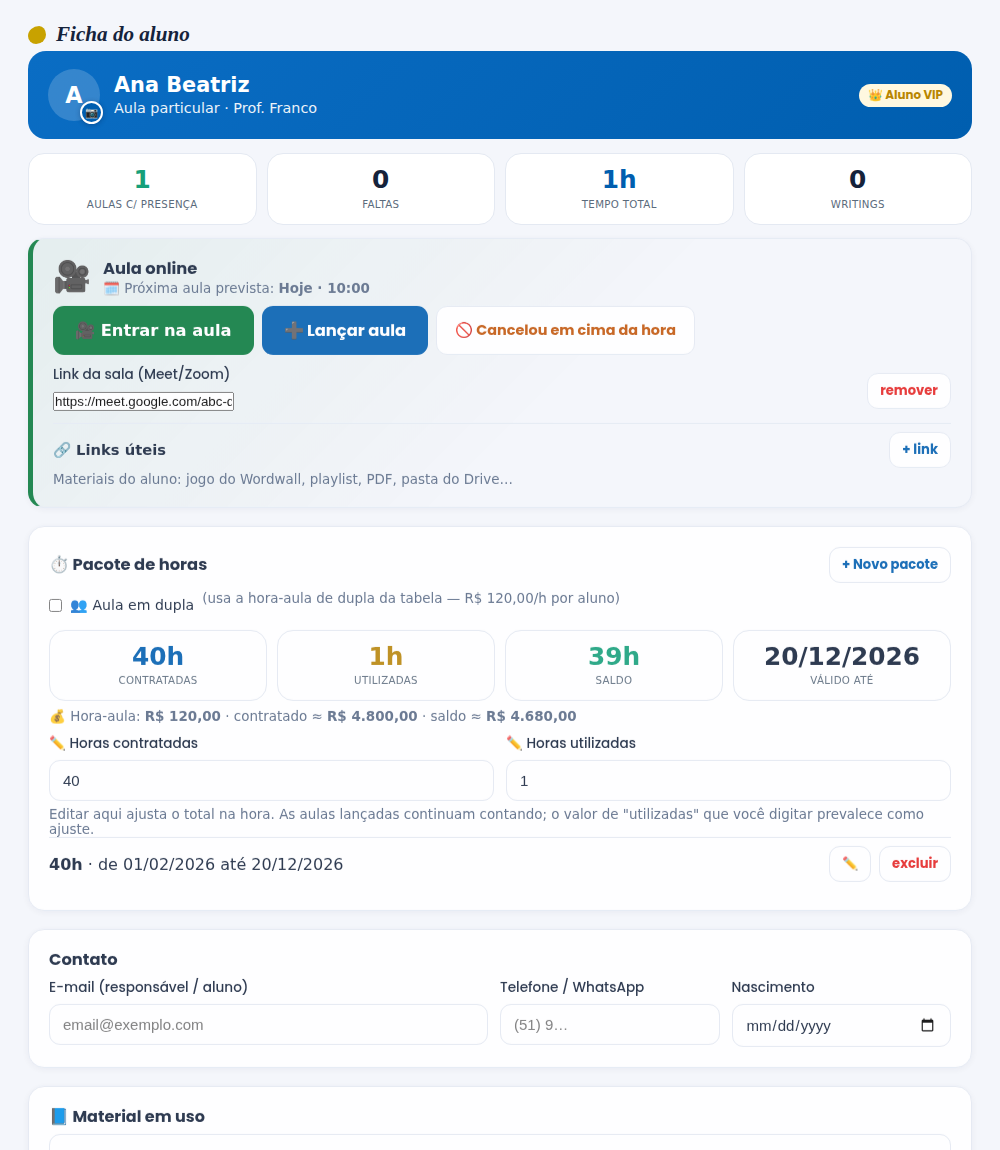
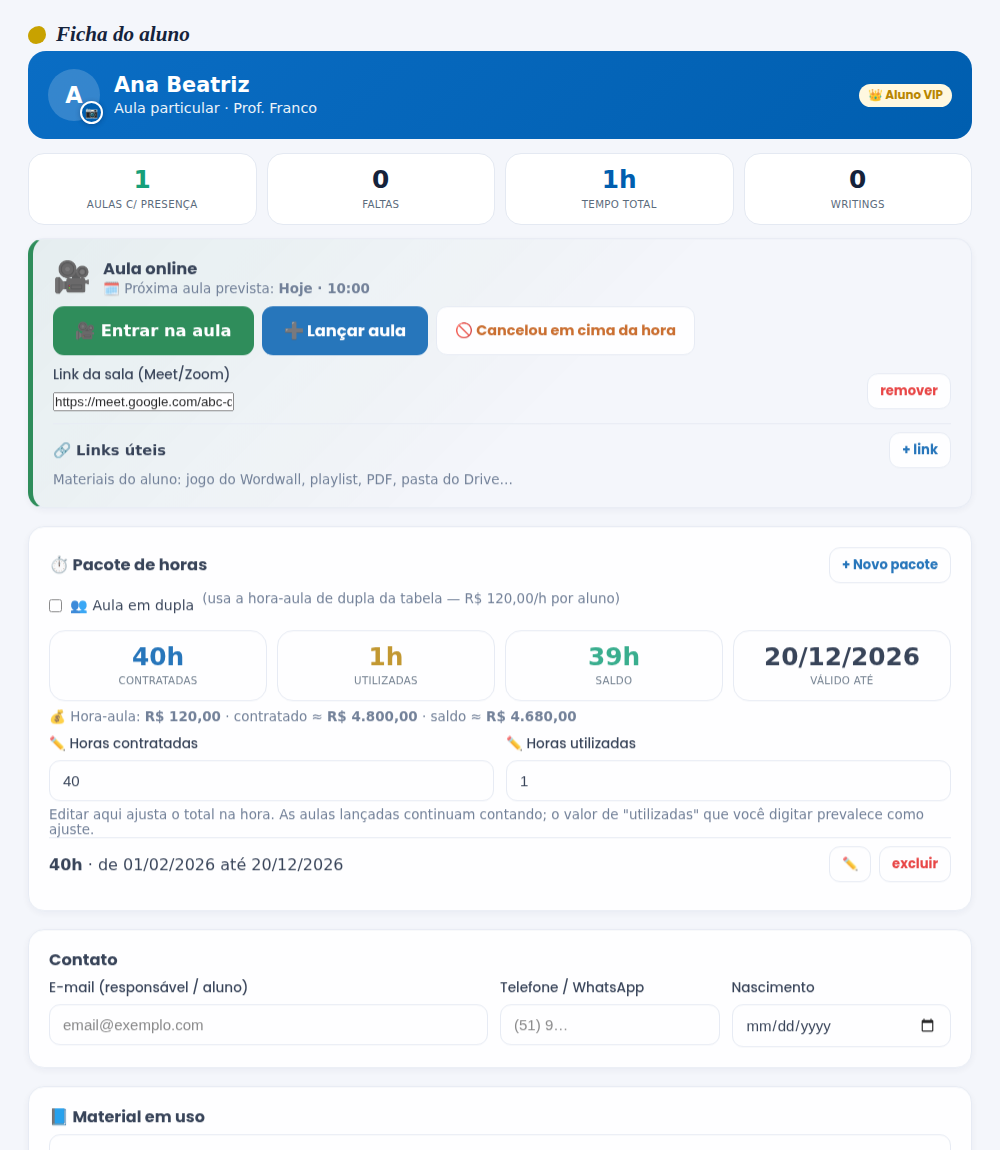
b162: ficha VIP do professor sem contadores no topo
- Tiles (aulas c/ presença, faltas, tempo total, writings) somem para o
  professor na ficha VIP — writings já têm seção própria abaixo;
  secretaria/direção seguem vendo tudo.
- Tutorial e README atualizados.

Claude-Session: https://claude.ai/code/session_0127VRn1ewvhEi3Lc1QwUsU8

Changed region(s): [[0.062, 0.3043, 0.217, 0.3652], [0.589, 0.5478, 0.62, 0.5783]]

diff --git a/src/js/01-nuvem-sincronizacao-com-o-google-apps-sc.js b/src/js/01-nuvem-sincronizacao-com-o-google-apps-sc.js
@@ -22,7 +22,7 @@ async function verificarSenha(usuario, senha){
 }
 function normNome(s){ return (s||'').normalize('NFD').replace(/[\u0300-\u036f]/g,'').toLowerCase().replace(/\s+/g,''); }
 let CLOUD_TOKEN = (function(){ try{ return localStorage.getItem(TKEY)||null; }catch(e){ return null; } })();
-const APP_VERSAO = '2026.08.03 · b161 (Supabase)';   // aparece no rodapé; mude a cada publicação no GitHub
+const APP_VERSAO = '2026.08.03 · b162 (Supabase)';   // aparece no rodapé; mude a cada publicação no GitHub
[1 lines of base64/hex data omitted]
 /* ============================================================================ */
 let _syncTimer=null;

diff --git a/src/js/16-turmas-e-alunos.js b/src/js/16-turmas-e-alunos.js
@@ -627,12 +627,12 @@ function renderFichaVip(v, vip){
       <div class="fx-htu">Aula particular${vip.professor?(' · Prof. '+escAttr(vip.professor)):''}${idade!=null?(' · '+idade+' anos'):''}${(ehProfessor()&&vip.material)?(' · 📘 '+escAttr(vip.material)):''}</div></div>
     <span class="pill" style="background:#fff8e0;color:#b88600">👑 Aluno VIP</span>
   </div>
-  <div class="fx-tiles">
+  ${ehProfessor()?'':`<div class="fx-tiles">
     ${tile(comp.length,'Aulas c/ presença','var(--ok)')}
     ${tile(faltas,'Faltas',faltas>0?'var(--vermelho)':'var(--tinta)')}
-    ${ehProfessor()?'':tile(fmtDur(compMin),'Tempo total','#005EAF')}
+    ${tile(fmtDur(compMin),'Tempo total','#005EAF')}
     ${tile(wrs.length,'Writings',wrs.length>0?'#9333c7':'var(--tinta)')}
-  </div>
+  </div>`}
   ${(consolMin>0&&!ehProfessor())?`<p class="hint" style="margin:8px 0 0">🕓 Fora as aulas com presença acima, há <b>${fmtDur(consolMin)}</b> de <b>aulas anteriores</b> (consolidação da importação). Elas somam no pacote de horas, mas <b>não contam</b> como aulas com presença aqui.</p>`:''}
   ${(typeof _cardAulaOnlineVip==='function')?_cardAulaOnlineVip(vip):''}
   ${_cardPacoteVip(vip.id)}`;

diff --git a/src/js/26-tutorial-o-que-cada-perfil-consegue-faze.js b/src/js/26-tutorial-o-que-cada-perfil-consegue-faze.js
@@ -183,7 +183,7 @@ Apenas a direção aprova.` },
 Alunos de aulas particulares, fora das turmas regulares.
 ## Professor
 - A ficha do aluno VIP mostra **só o que é seu**: o painel **"Sua aula com este aluno"** (próxima aula prevista, botão 🎥 **Entrar na aula** e ➕ **Lançar aula**), horários, links úteis e o histórico de aulas.
-- **Você não vê** pacote de horas, totais de horas feitas nem cancelamentos registrados pela secretaria — isso é controle interno.
+- **Você não vê** pacote de horas, totais de horas feitas, contadores no topo da ficha nem cancelamentos registrados pela secretaria — isso é controle interno. Os writings aparecem na seção própria, mais abaixo.
 - **Horários previstos** são definidos pela secretaria (você só consulta). A aula aconteceu em outro horário? Ajuste o campo **"Hora em que aconteceu"** ao lançar — ele já vem preenchido com o previsto do dia.
 - Lança as aulas dadas (data, hora, duração — **mínimo 30 minutos** —, tema, presença).
 - **Aluno não compareceu?** Você mesmo registra a falta — a hora é **descontada do pacote** (regra da escola).

diff --git a/README.md b/README.md
@@ -10,7 +10,7 @@ IA, **matrículas e financeiro**, **livros sob demanda**, **permissões configur
 celular/tablet/computador) publicado como um único `index.html`, mas **desenvolvido em módulos**
 (pasta `src/`) com build automático.
 
-> **Versão atual: `2026.08.03 · b161 (Supabase)`.**
+> **Versão atual: `2026.08.03 · b162 (Supabase)`.**
 > O app roda sobre **PostgreSQL no Supabase** (migração do Google Sheets em 25/07).
 > Confira a versão em uso no **rodapé** do app — ele avisa sozinho quando há atualização.
 
@@ -226,7 +226,8 @@ aluno" com próxima aula, 🎥 Entrar na aula em destaque e ➕ Lançar aula; li
 secretaria) e **regras de falta/cancelamento**: falta sem aviso é registrada pelo professor e
 desconta a hora; cancelamento com **menos de 12h** é registrado pela **secretaria** (🚫 botão
 na ficha) e também desconta — professor liberado não registra nada. Professor **não vê** pacote
-de horas, totais de horas nem cancelamentos, e **não altera horários previstos** (só consulta);
+de horas, totais de horas, contadores de presença/faltas/writings no topo da ficha nem
+cancelamentos, e **não altera horários previstos** (só consulta);
 a **hora real** da aula ele ajusta no lançamento (campo "Hora em que aconteceu", pré-preenchido
 com o previsto do dia). Duração mínima de aula VIP: **30 minutos**.
 
